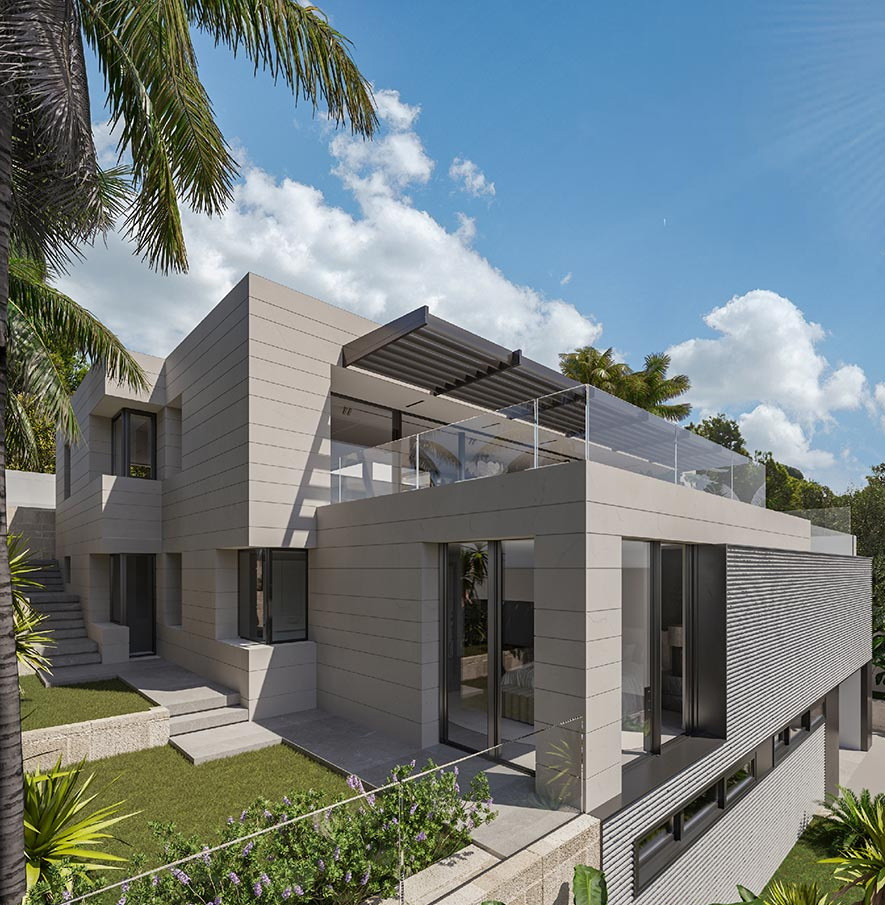
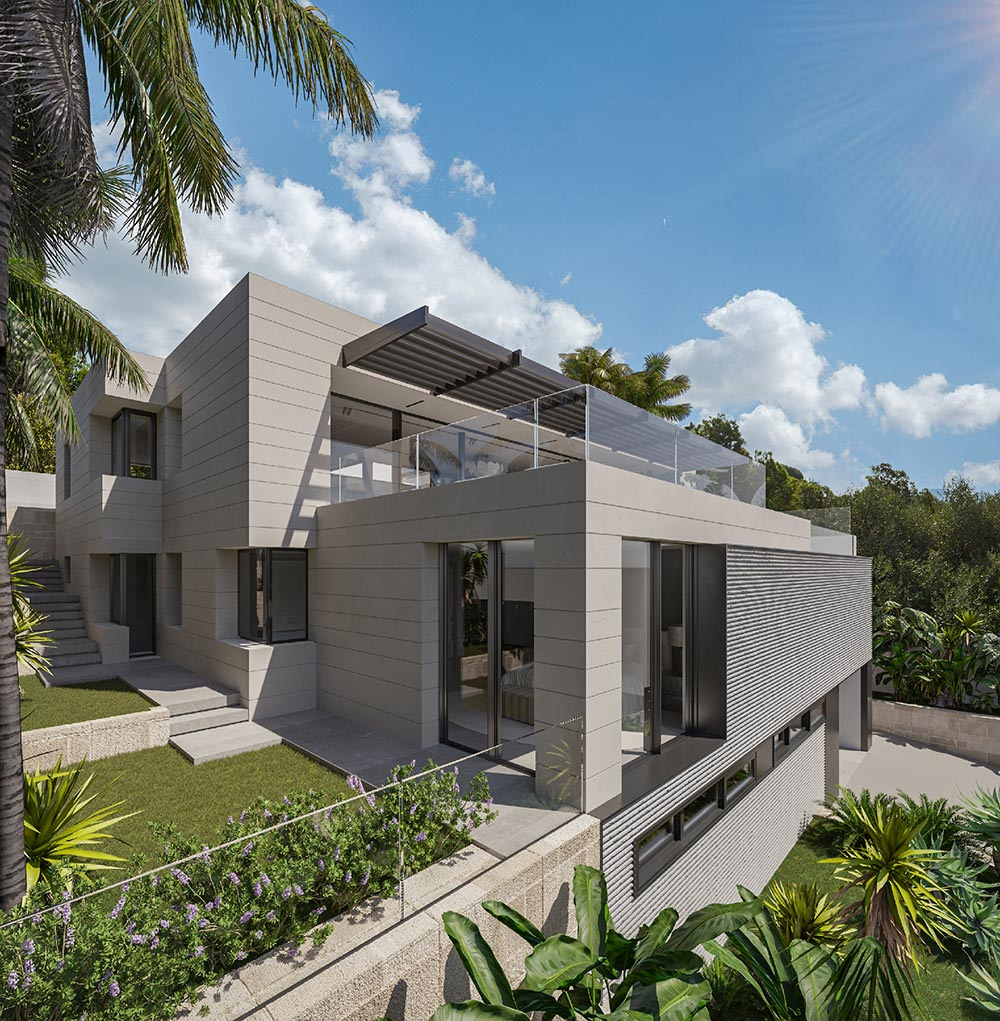
dd

diff --git a/src/pages/Villa.tsx b/src/pages/Villa.tsx
@@ -1,4 +1,4 @@
-import React from "react";
+import React, { Component, useEffect, useState } from 'react';
 import Navbar from "../component/navbar";
 
 const Villa = () => {
@@ -12,6 +12,16 @@ const Villa = () => {
 
 
 function VillaContent () {
+  const [position, setPosition] = useState(0);
+	function onScroll() {
+		setPosition(window.scrollY);
+	}
+	useEffect(() => {
+		window.addEventListener("scroll", onScroll);
+		return () => {
+			window.removeEventListener("scroll", onScroll);
+		};
+	}, []);
   return (
     <div className="Villa">
       <h1>LUXURY VACATION HOUSE</h1>
@@ -25,7 +35,7 @@ function VillaContent () {
         <p>SPA</p>
       </div>
       <div className="house_content">
-        <div>
+        <div className="Villaimg">
           <img src='https://irisiris99.github.io/blanc/imgs/Villaimg1.jpg' />
         </div>
         <div className="house_content_font">
@@ -33,7 +43,7 @@ function VillaContent () {
           <p>After adapting the structure to the new interior’s program and the need to have a swimming pool on the main terrace of the second floor, the aesthetic and strong character of this contemporary villa take place in the antagonism of a hermetic aspect from the exterior and an oasis of light and nature in its interior.</p>
         </div>
       </div>
-      <div className="house_content2">
+      <div className="house_content2" >
         <img src='https://irisiris99.github.io/blanc/imgs/Villaimg2.jpg' />
       </div>
       <div className="rooms">

diff --git a/src/App.css b/src/App.css
@@ -182,7 +182,7 @@ img.infinite_rotating_logo {
   transition: 0.3s ease-in-out;
 }
 .Villa .sublist p:hover {
-  color: aquamarine;
+  color: yellow;
 }
 
 .Villa .house_content {
@@ -190,6 +190,16 @@ img.infinite_rotating_logo {
   display: flex;
   justify-content: center;
   align-items: center;
+  overflow: hidden;
+}
+
+.Villaimg {
+  width: 100%;
+  margin-right: 5%;
+  overflow: hidden;
+}
+.Villaimg img {
+  width: 100%;
 }
 
 .Villa .house_content div {
@@ -216,6 +226,10 @@ img.infinite_rotating_logo {
   display: flex;
   justify-content: flex-end;
   padding: 10% 0%;
+}
+
+.house_content2 img {
+  width: 70%;
 }
 
 .rooms {
